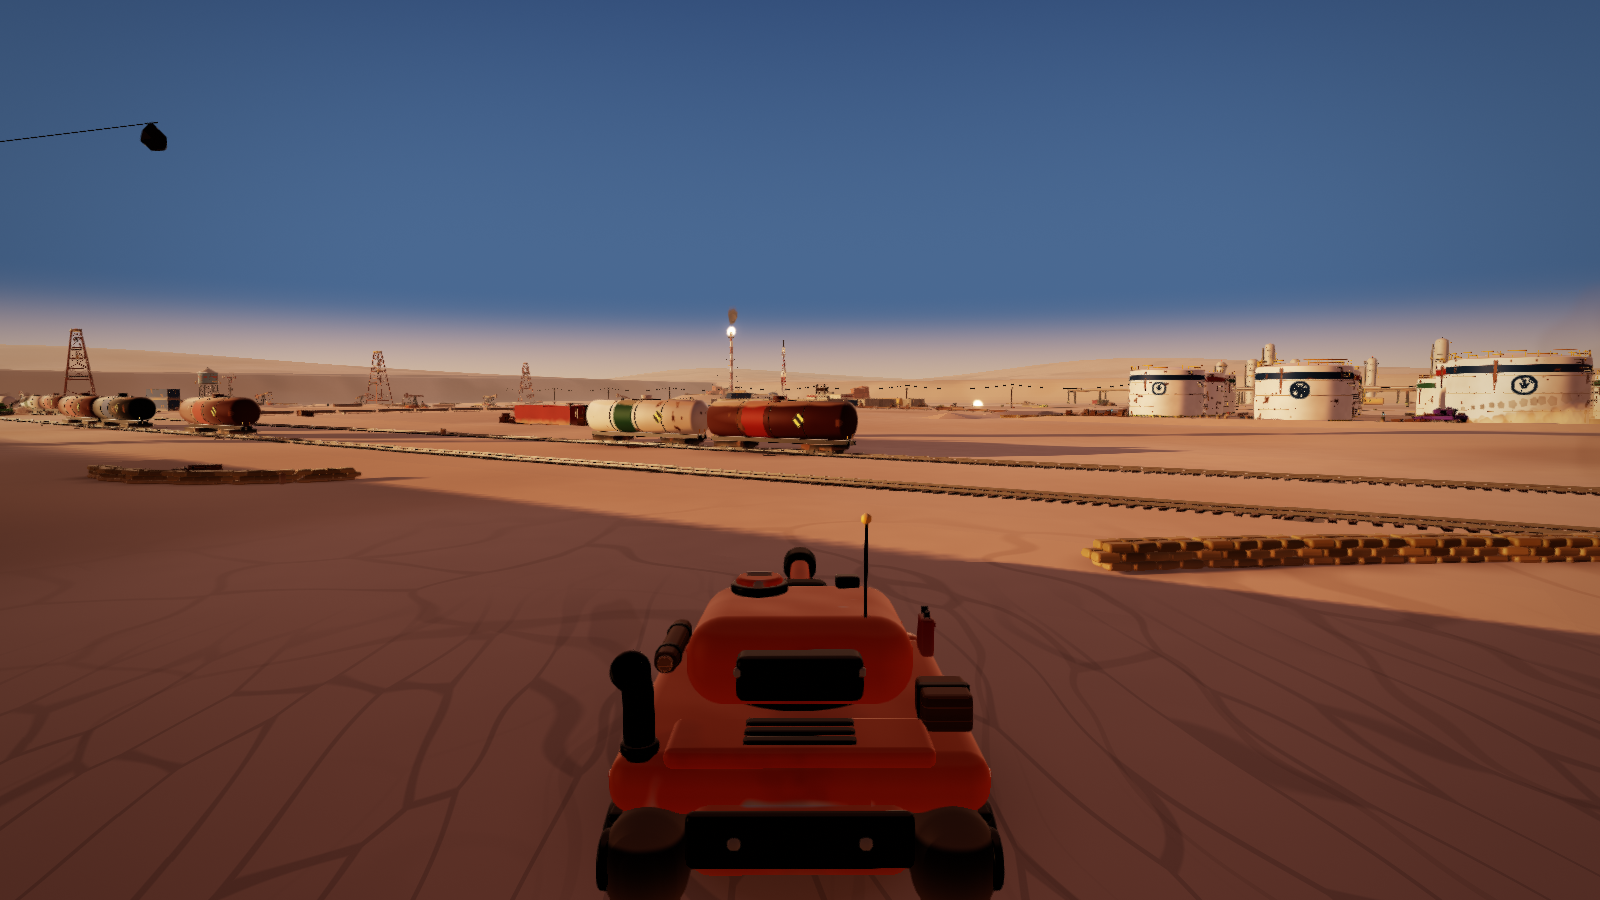
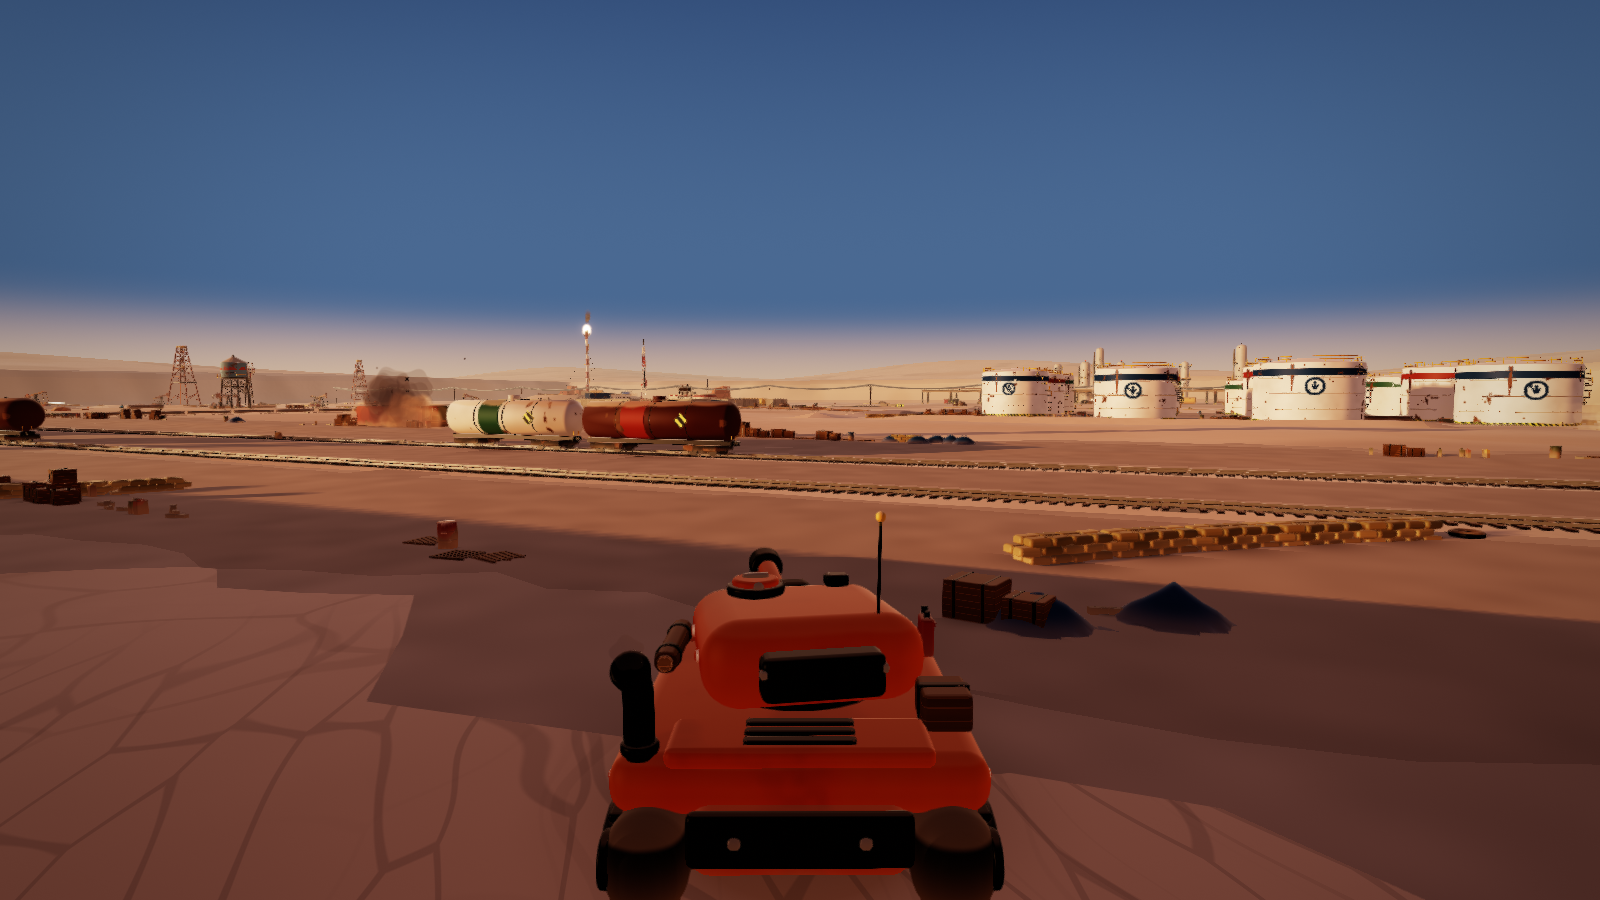
No ghost ruts from airborne tanks, own hull never dithered, warm Refinery noon

diff --git a/crates/arena-client/src/renderer.rs b/crates/arena-client/src/renderer.rs
@@ -283,6 +283,14 @@ pub struct Instance {
     pub tint: Vec4,
 }
 
+/// Flags an instance's tint so the see-through never dithers it (the
+/// followed tank): `tint.w` 1 (tinted) becomes 2, 0 (untinted) becomes -1;
+/// the shader still reads `w > 0.5` as "use the tint".
+pub fn no_see_through(tint: Vec4) -> Vec4 {
+    let w = if tint.w > 0.5 { 2.0 } else { -1.0 };
+    Vec4::new(tint.x, tint.y, tint.z, w)
+}
+
 impl Instance {
     pub fn new(mesh: MeshId, model: Mat4) -> Self {
         Self { mesh, model, params: Vec4::ZERO, tint: Vec4::ZERO }
@@ -593,6 +601,9 @@ pub struct Renderer {
     focus_strength: f32,
     /// See-through on (shots turn it off for a before/after).
     pub see_through_on: bool,
+    /// The map is a pale salt flat (the Refinery): a high sun gets a
+    /// darker, warmer, more saturated grade so it does not wash to white.
+    pub salt_flat: bool,
 }
 
 const INSTANCE_STRIDE: u64 = std::mem::size_of::<GpuInstance>() as u64;
@@ -1056,31 +1067,37 @@ impl Renderer {
             focus: Vec3::ZERO,
             focus_strength: 0.0,
             see_through_on: true,
+            salt_flat: false,
         }
     }
 
     /// See-through for the chase camera: picks the tank the camera follows
-    /// (the candidate nearest the view axis, 2..22 m ahead of the eye) and
+    /// (the nearest candidate 2..22 m ahead within 4 m of the view axis) and
     /// eases the dither of whatever stands between the eye and it (props,
     /// walls, containers; not the ground) in, or back out when there is no
     /// such tank (gunsight, spectating from afar). Call once a frame.
-    pub fn see_through(&mut self, camera: &Camera, tanks: impl Iterator<Item = Vec3>, dt: f32) {
+    /// Returns the followed tank, whose instances the caller flags with
+    /// [`no_see_through`].
+    pub fn see_through(&mut self, camera: &Camera, tanks: impl Iterator<Item = (u8, Vec3)>, dt: f32) -> Option<u8> {
         let fwd = (camera.target - camera.eye).normalize_or_zero();
-        let mut best: Option<(f32, Vec3)> = None;
-        for p in tanks {
+        let mut best: Option<(f32, Vec3, u8)> = None;
+        for (id, p) in tanks {
             let c = p + Vec3::Y * 1.0;
             let along = (c - camera.eye).dot(fwd);
             if !(2.0..22.0).contains(&along) {
                 continue;
             }
             let off = (c - camera.eye - fwd * along).length();
-            if off < 4.0 && best.is_none_or(|(b, _)| off < b) {
-                best = Some((off, c));
+            // The nearest tank ahead (the one the chase rig sits behind),
+            // not the one nearest the view axis: an enemy dead ahead
+            // further out would otherwise steal the focus.
+            if off < 4.0 && best.is_none_or(|(b, _, _)| along < b) {
+                best = Some((along, c, id));
             }
         }
         let want = if !self.see_through_on {
             0.0
-        } else if let Some((_, c)) = best {
+        } else if let Some((_, c, _)) = best {
             self.focus = c;
             1.0
         } else {
@@ -1089,6 +1106,7 @@ impl Renderer {
         // A still frame (dt 0: shots) takes the target at once.
         let k = if dt > 0.0 { 1.0 - (-dt * 8.0).exp() } else { 1.0 };
         self.focus_strength += (want - self.focus_strength) * k;
+        best.map(|b| b.2)
     }
 
     #[allow(dead_code)] // wired to the Settings menu by the game layer
@@ -1487,6 +1505,15 @@ impl Renderer {
             l.sky_color = look.sky_color.lerp(storm_dust * 0.7, s);
             l.ground_color = look.ground_color.lerp(storm_dust * 0.8, s * 0.6);
             l.air_glow = look.air_glow * (1.0 + 2.0 * s);
+        }
+        if self.salt_flat {
+            // Strongest at noon, nothing at golden hour or dusk.
+            let k = ((look.sun_elevation - 25.0) / 40.0).clamp(0.0, 1.0);
+            let k = k * k * (3.0 - 2.0 * k);
+            l.exposure = look.exposure * (1.0 - 0.12 * k);
+            l.saturation = look.saturation * (1.0 + 0.22 * k);
+            l.warmth = look.warmth * Vec3::new(1.0 + 0.04 * k, 1.0, 1.0 - 0.07 * k);
+            l.sun_color = look.sun_color * Vec3::new(1.0, 1.0 - 0.03 * k, 1.0 - 0.1 * k);
         }
         let look = &l;
         let globals = Globals {
@@ -1947,6 +1974,49 @@ mod look_calib {
         for (on, name) in [(false, "off"), (true, "on")] {
             wr.renderer.see_through_on = on;
             save(&mut wr, &world, w, h, &format!("{dir}/see-through-{name}.png"));
+        }
+        // Close behind the tank: its own hull must never stipple.
+        world.camera = Some(Camera::look(Vec3::new(-5.0, 2.6, -3.6), Vec3::new(4.0, 1.0, -8.0), 62.0));
+        save(&mut wr, &world, w, h, &format!("{dir}/see-through-close.png"));
+    }
+
+    /// See-through in play: Raider Waves at the Refinery outpost from a
+    /// chase camera behind the human tank, turning round in steps, with
+    /// see-through off and on (to `TANSK_LOOK_DIR`, default docs/shots/look).
+    #[test]
+    #[ignore]
+    fn shots_see_through_raid() {
+        let dir = std::env::var("TANSK_LOOK_DIR").unwrap_or_else(|_| format!("{}/../../docs/shots/look", env!("CARGO_MANIFEST_DIR")));
+        std::fs::create_dir_all(&dir).expect("dir");
+        let (w, h) = (1280, 720);
+        let (device, queue) = device();
+        let mut wr = WorldRenderer::new(Renderer::with_quality(device, queue, wgpu::TextureFormat::Rgba8Unorm, w, h, Quality::Medium));
+        let (mut sim, me) = Sim::practice_raid_on(MapId::Refinery, 7, 3, 0.7);
+        wr.set_map(&Map::by_id(MapId::Refinery, 7));
+        let mut world = RenderWorld::default();
+        for tick in 0..(60 * 20) {
+            sim.step();
+            let ev = sim.drain_events();
+            if tick > 60 * 12 {
+                world = RenderWorld::from_snapshot(&sim.snapshot(), &paint_for);
+                world.time = tick as f32 * arena_core::DT;
+                for e in &ev {
+                    wr.event(e, Vec3::ZERO);
+                }
+                wr.fx.update(arena_core::DT, &world);
+            }
+        }
+        world.dt = 0.0;
+        let t = world.tanks.iter().find(|t| t.player == me).map(|t| t.pos).unwrap_or(Vec3::ZERO);
+        for k in 0..6 {
+            let a = k as f32 * std::f32::consts::TAU / 6.0;
+            let back = Vec3::new(a.cos(), 0.0, a.sin());
+            let eye = t - back * 7.5 + Vec3::Y * 3.6;
+            world.camera = Some(Camera::look(eye, t + back * 30.0 + Vec3::Y * 1.0, 58.0));
+            for (on, name) in [(false, "off"), (true, "on")] {
+                wr.renderer.see_through_on = on;
+                save(&mut wr, &world, w, h, &format!("{dir}/st-raid-{k}-{name}.png"));
+            }
         }
     }
 

diff --git a/crates/arena-client/src/world.rs b/crates/arena-client/src/world.rs
@@ -465,6 +465,8 @@ impl WorldRenderer {
     pub fn set_map(&mut self, map: &Map) {
         self.begin_scene();
         self.renderer.recorded = Some(HashMap::new());
+        // The Refinery's pale salt flat gets its own high-sun grade.
+        self.renderer.salt_flat = map.id == arena_core::MapId::Refinery;
         self.map = Some(map.clone());
         self.statics.clear();
         self.blobs.clear();
@@ -856,6 +858,10 @@ impl WorldRenderer {
         for p in &world.props {
             blobs.push((p.pos - Vec3::Y * 0.4).extend(0.7));
         }
+        // See-through: which tank the camera follows (its own meshes are
+        // flagged below so they never dither).
+        let focus = self.renderer.see_through(&camera, world.tanks.iter().filter(|t| t.alive).map(|t| (t.player, t.pos)), dt);
+        let mut tank_starts: Vec<(PlayerId, usize)> = Vec::new();
         let r = &mut self.renderer;
         let lib = &mut self.lib;
         // Wrecks: track each one, hold it a while after the sim drops it,
@@ -899,6 +905,7 @@ impl WorldRenderer {
             if !t.alive {
                 continue;
             }
+            tank_starts.push((t.player, instances.len()));
             let health = world.health.iter().find(|h| h.0 == t.player).map(|h| h.1).unwrap_or(1.0);
             let damage = (1.0 - health).clamp(0.0, 1.0);
             let anim = self.anims.entry(t.player).or_default();
@@ -1046,6 +1053,13 @@ impl WorldRenderer {
             }
             occluders.push(hull.transform_point3(Vec3::new(1.4, -0.1, 0.0)).extend(1.7));
             occluders.push(hull.transform_point3(Vec3::new(-1.4, -0.1, 0.0)).extend(1.7));
+        }
+        // Each tank's instances run from its start to the next tank's.
+        if let Some(k) = tank_starts.iter().position(|s| Some(s.0) == focus) {
+            let end = tank_starts.get(k + 1).map_or(instances.len(), |s| s.1);
+            for i in &mut instances[tank_starts[k].1..end] {
+                *i = crate::renderer::Instance { tint: crate::renderer::no_see_through(i.tint), ..*i };
+            }
         }
         for p in &world.props {
             let xf = Mat4::from_rotation_translation(p.rot, p.pos);
@@ -1222,8 +1236,6 @@ impl WorldRenderer {
         self.fx.set_max_particles(self.renderer.quality_settings().max_particles);
         self.fx.storm = self.renderer.look.storm;
         let t3 = clock_ms();
-        // Whatever stands between the chase camera and its tank dithers away.
-        self.renderer.see_through(&camera, world.tanks.iter().filter(|t| t.alive).map(|t| t.pos), dt);
         self.renderer.render(output, &camera, world.time, &instances, &sprites, &ruts, &blobs, &lights, &occluders);
         let t4 = clock_ms();
         self.prof = [t1 - t0, t2 - t1, t3 - t2, t4 - t3];

diff --git a/crates/arena-client/src/effects.rs b/crates/arena-client/src/effects.rs
@@ -87,6 +87,8 @@ struct TankFx {
     exhaust_t: f32,
     dust_t: f32,
     last_rut: [Option<Vec3>; 2],
+    /// Last frame's hull height, for telling a flung tank from a driving one.
+    last_y: Option<f32>,
 }
 
 struct Flash {
@@ -510,8 +512,24 @@ impl Fx {
                     }
                 }
             }
-            // Ruts under both tracks.
+            // Ruts under both tracks, only while on the ground: a tank flung
+            // by a blast laid tread strips along its flight, which hung in
+            // the air as translucent arches. Airborne: rising or falling
+            // fast, or tipped well over.
+            let y = t.pos.y;
+            let vy = match st.last_y {
+                Some(ly) if dt > 1e-4 => (y - ly) / dt,
+                _ => 0.0,
+            };
+            st.last_y = Some(y);
+            let upright = hull.transform_vector3(Vec3::Y).normalize_or_zero().y;
+            if vy.abs() > 4.5 || upright < 0.6 {
+                st.last_rut = [None, None];
+            }
             for (k, side) in [-1.42f32, 1.42].into_iter().enumerate() {
+                if vy.abs() > 4.5 || upright < 0.6 {
+                    break;
+                }
                 let p = hull.transform_point3(Vec3::new(0.0, -0.9, side));
                 match st.last_rut[k] {
                     Some(a) if a.distance(p) > 0.8 => {
@@ -579,8 +597,10 @@ impl Fx {
                     }
                 }
                 arena_core::snapshot::ShotKind::MortarShell => {
-                    if self.every(8500 + i as u32, 0.05, dt) > 0 {
-                        self.smoke(s.pos, Vec3::Y * 0.2, 0.3, 0.3, 1.2);
+                    // Only a short, faint wisp behind the shell: a lasting
+                    // trail drew whole translucent arches across the sky.
+                    if self.every(8500 + i as u32, 0.06, dt) > 0 {
+                        self.smoke_a(s.pos, Vec3::Y * 0.2, 0.25, 0.3, 0.3, 0.3);
                     }
                 }
                 _ => {}
